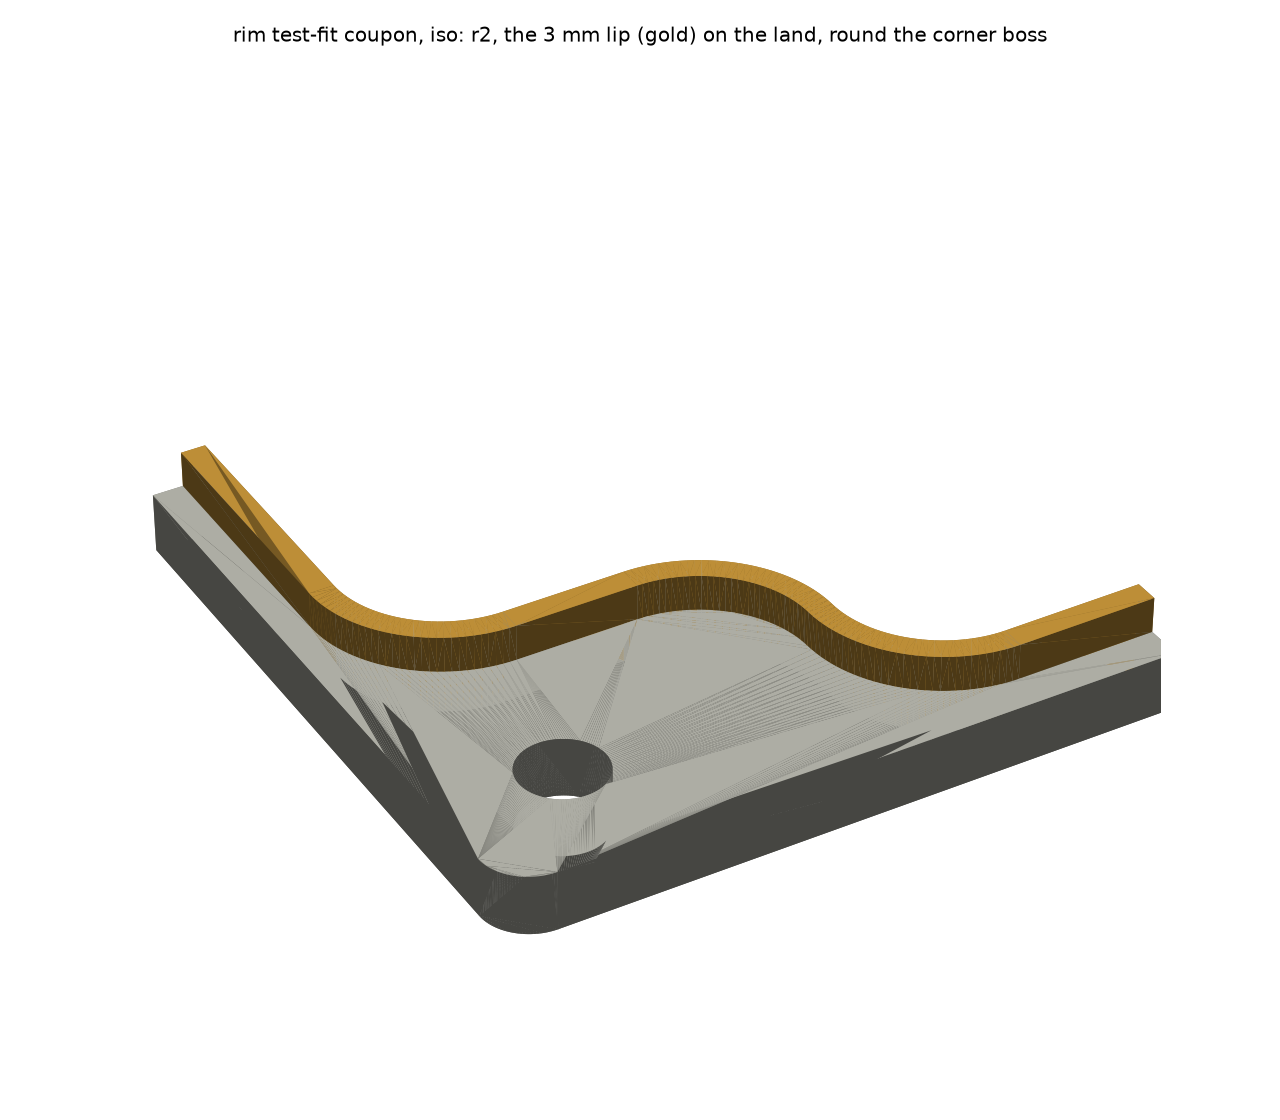
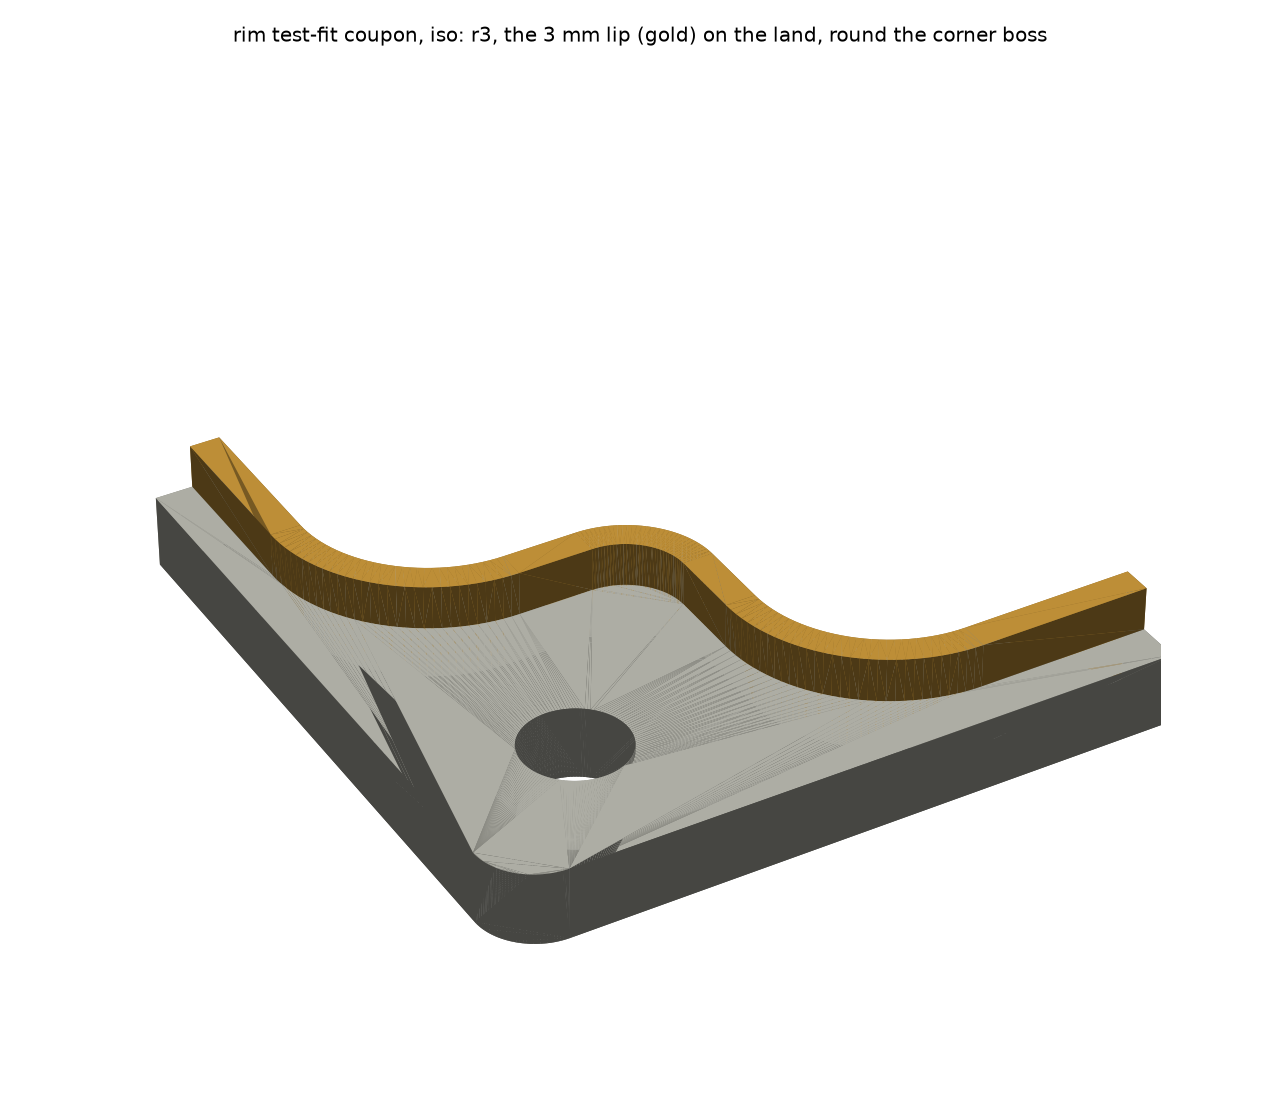
hardware: TX rim test-fit coupon r3, the S symmetric about the corner diagonal
The S's middle runs now sit 20 mm in from each straight lip line, lip centre to lip centre.
They leave each straight 30 mm from the other side's lip line. The two outer bends are R10
and the inner bend round the hole is R5, so each middle run has a 5 mm straight parallel to
an edge. The S is symmetric about the diagonal through the screw, to within the lip's 0.5 mm
side difference.

The coupon is back to 45 x 45 x 8, with 11 and 11.5 mm of straight past the outer bends.
The top view ghosts r2 and draws the diagonal. The full base's rim follows; the gate stays
closed.

diff --git a/hardware/tx-stack-r1/cage/coupon_views.py b/hardware/tx-stack-r1/cage/coupon_views.py
@@ -37,30 +37,42 @@ def top(solid):
         ax.plot(*zip(*ln), color="#555", lw=1.2)
     for ln in outline(solid, land_h + cage.TONGUE_H / 2):
         ax.plot(*zip(*ln), color="#b07a10", lw=1.6)
-    # r1's lip, ghosted under the new one
-    r1 = dict(cage.COUPON_R1)
+    # r2's lip, ghosted under the new one; the corner's diagonal through the screw
+    r1 = dict(cage.COUPON_GHOST)
     old = cage.seal_region(cage.TONGUE_W / 2, 0, 1, **dict(r1)).intersect(
         cq.Workplane("XY").rect(cx, cz, centered=False).extrude(1)).cut(cage.seal_region(-cage.TONGUE_W / 2, -1, 3, **dict(r1)))
     for ln in outline(old, 0.5):
         ax.plot(*zip(*ln), color="#aaa", lw=1.0, ls="--")
+    ax.plot([0, min(cx, cz)], [0, min(cx, cz)], color="#c03030", lw=0.8, ls="-.")
+    ax.text(min(cx, cz) - 8, min(cx, cz) - 3, "diagonal through\nthe screw", color="#c03030", fontsize=8)
     cs, cl, w = cage.TONGUE_CS, cage.TONGUE_CL, cage.TONGUE_W
-    rise, run, r = cage.S_RISE, cage.S_RUN, cage.CURVE_R
+    rise, run, r, ri = cage.S_RISE, cage.S_RUN, cage.CURVE_R, cage.CURVE_RI
     sx, sz = cage.SCREWS[0]
     hx, hz = sx + cage.T, sz + cage.T
     blue = "#1f4e9c"
     kw = dict(arrowprops=dict(arrowstyle="<->", color=blue, lw=0.9), color=blue, fontsize=8)
     t = dict(color=blue, fontsize=8)
-    ax.annotate("", (0, 48), (cl, 48), **kw)
-    ax.text(cl + 0.8, 48.6, f"{cl:g} (long side)", **t)
-    ax.annotate("", (50, 0), (50, cs), **kw)
-    ax.text(50.6, cs / 2 + 1.2, f"{cs:g}\n(short\nside)", **t)
-    ax.annotate("", (46, cs), (46, cs + rise), **kw)
-    ax.text(46.6, cs + rise / 2, f"{rise:g}", va="center", **t)
-    ax.annotate("", (cl, cs + rise + 6), (cl + run, cs + rise + 6), **kw)
-    ax.text(cl + run / 2, cs + rise + 6.7, f"{run:g}", ha="center", **t)
+    ax.annotate("", (0, 47), (cl, 47), **kw)
+    ax.text(cl + 0.8, 46.6, f"{cl:g} (long side)", **t)
+    ax.annotate("", (cx + 2, 0), (cx + 2, cs), **kw)
+    ax.text(cx + 2.6, cs / 2 + 1.2, f"{cs:g}\n(short\nside)", **t)
+    ax.annotate("", (cx - 3, cs), (cx - 3, cs + rise), **kw)
+    ax.text(cx - 2.4, cs + rise / 2, f"{rise:g}", va="center", **t)
+    ax.annotate("", (cl, cs + rise + 4), (cl + run, cs + rise + 4), **kw)
+    ax.text(cl + run / 2, cs + rise + 4.7, f"{run:g}", ha="center", **t)
+    ax.annotate("", (-2, cs), (-2, cs + rise + r), **kw)
+    ax.text(-3.6, cs + (rise + r) / 2, f"{rise + r:g}", rotation=90, va="center", **t)
+    ax.annotate("", (cl, -1.2), (cl + run + r, -1.2), **kw)
+    ax.text(cl + (run + r) / 2, -2.2, f"{run + r:g}", ha="center", **t)
     ax.annotate("", (cl - w / 2, 42), (cl + w / 2, 42), **kw)
     ax.text(cl + w / 2 + 0.8, 41.6, f"{w:g}", **t)
-    ax.text(cl + run + 4, 34, f"R {r:g} bends on the lip's centre line [TBD-MEASURE]\nlip {w:g} wide, "
+    # the middle runs' straights (between the outer and inner bends), axis-aligned
+    st = rise - r - ri
+    ax.annotate("", (cl + r, cs + rise - 3.2), (cl + r + st, cs + rise - 3.2), **kw)
+    ax.text(cl + r + st / 2, cs + rise - 5.4, f"{st:g} straight", ha="center", **t)
+    ax.annotate("", (cl + run + 3.2, cs + r), (cl + run + 3.2, cs + r + st), **kw)
+    ax.text(cl + run + 4.0, cs + r + st / 2, f"{st:g} straight", va="center", **t)
+    ax.text(cl + run + 4, 34, f"R {r:g} outer bends, R {ri:g} inner, on the lip's centre line [TBD-MEASURE]\nlip {w:g} wide, "
             f"{cage.TONGUE_H:g} tall; no land inside it", **t)
     d = S.val("coupon_bore")
     ax.annotate("", (0, hz), (hx, hz), **kw)
@@ -68,15 +80,16 @@ def top(solid):
     ax.annotate("", (hx, 0), (hx, hz), **kw)
     ax.text(hx + 0.6, hz / 2 - 2.5, f"{hz:g}", va="center", **t)
     ax.text(hx + d / 2 + 0.5, hz + d / 2, f"\u00d8{d:g}", **t)
-    ax.text(0.8, -2.8, f"outside corner R {cage.CORNER_R:g} [TBD-MEASURE]; grey dashed: r1's lip", **t)
+    ax.text(0.8, -4.4, f"outside corner R {cage.CORNER_R:g} [TBD-MEASURE]; grey dashed: r2's lip", **t)
     ax.set_aspect("equal")
-    ax.set_xlim(-4, cx + 9)
-    ax.set_ylim(-5, cz + 4)
+    ax.set_xlim(-6, cx + 9)
+    ax.set_ylim(-6, cz + 4)
     ax.set_xlabel("mm from the lid's outside edge (short side)")
     ax.set_ylabel("mm from the lid's outside edge (long side)")
-    ax.set_title(f"rim test-fit coupon r2, top: {cx:g} x {cz:g} x {ch:g} mm, lip (gold) moved out after the r1 fit; "
-                 f"hole \u00d8{d:g} at {hx:g}/{hz:g}.\nCHECK: Clint's marker line on r1 sat closer to the hole than "
-                 "these numbers (20 / 30 / R10) put the lip", fontsize=9)
+    ax.set_title(f"rim test-fit coupon r3, top: {cx:g} x {cz:g} x {ch:g} mm; hole \u00d8{d:g} at {hx:g}/{hz:g}\n"
+                 f"the S symmetric about the diagonal: 20 in from each lip line, R{r:g} outer / R{ri:g} inner bends, "
+                 f"axis-aligned straights\nCHECK: Clint's marker line on r1 sat closer to the hole than these numbers "
+                 "put the lip", fontsize=9)
     ax.grid(alpha=0.2)
     fig.tight_layout()
     fig.savefig(OUT / "rim-coupon-top.png", dpi=160)
@@ -104,7 +117,7 @@ def iso(solid):
     ax.set_box_aspect((cage.COUPON[0], cage.COUPON[1], 12))
     ax.view_init(elev=35, azim=-120)
     ax.set_axis_off()
-    ax.set_title("rim test-fit coupon, iso: r2, the 3 mm lip (gold) on the land, round the corner boss", fontsize=9)
+    ax.set_title("rim test-fit coupon, iso: r3, the 3 mm lip (gold) on the land, round the corner boss", fontsize=9)
     fig.tight_layout()
     fig.savefig(OUT / "rim-coupon-iso.png", dpi=160)
 

diff --git a/hardware/tx-stack-r1/cage/cage.py b/hardware/tx-stack-r1/cage/cage.py
@@ -51,7 +51,7 @@ LAND = RIM_OUT + RIM_CH + RIM_IN    # 9 mm
 TONGUE_W, TONGUE_H, TONGUE_CS, TONGUE_CL = S.val("rim_tongue")   # lip centre from the lid's edge: short, long sides
 TONGUE_C = max(TONGUE_CS, TONGUE_CL)
 S_RISE, S_RUN = S.val("seal_s")     # the S round each boss, lip centre line to lip centre line
-CURVE_R = S.val("seal_curve_r")
+CURVE_R, CURVE_RI = S.val("seal_curve_r")   # outer bends, inner bend
 # inside the base wall (box frame): the lip centre lines and the S's two segments
 LIP_CX, LIP_CZ = TONGUE_CL - T, TONGUE_CS - T            # along the long walls (Xb), the short walls (Zb)
 S_X, S_Z = LIP_CX + S_RUN, LIP_CZ + S_RISE               # the S's segment along Zb at Xb S_X, along Xb at Zb S_Z
@@ -321,9 +321,9 @@ def coax(arm):
     return pe, yb, zb, ax
 
 
-COUPON = (55.0, 55.0, 8.0)          # the test-fit coupon (r2): one rim corner, outside footprint x height; at least
+COUPON = (45.0, 45.0, 8.0)          # the test-fit coupon (r3): one rim corner, outside footprint x height; at least
 CORNER_R = S.val("corner_r_out")    #   10 mm of straight lip past each outer bend
-COUPON_R1 = dict(cs=4.5, cl=4.5, rise=19.0, run=18.0, r=5.0)   # r1's lip, ghosted on the drawing
+COUPON_GHOST = dict(cs=4.0, cl=3.5, rise=20.0, run=30.0, r=10.0)   # r2's lip, ghosted on the drawing
 
 
 def coupon_seal_points(cs=None, cl=None, rise=None, run=None, far=90.0):
@@ -339,8 +339,14 @@ def coupon_seal_points(cs=None, cl=None, rise=None, run=None, far=90.0):
 
 
 def rounded_wire(pts, r, bends=(1, 2, 3)):
-    """A closed CadQuery wire through pts, the 90-degree corners at the indices in bends rounded at radius r
-    (tangent arcs; a segment exactly 2r long is all arc)."""
+    """r is one radius, or one per bend (in the order of bends)."""
+    rs = dict(zip(bends, r if isinstance(r, (tuple, list)) else [r] * len(bends)))
+    return _rounded_wire(pts, rs)
+
+
+def _rounded_wire(pts, rs):
+    """A closed CadQuery wire through pts, the 90-degree corners at the indices in rs rounded at rs[i] (tangent
+    arcs between straights parallel to the edges)."""
     import cadquery as cq
     n = len(pts)
 
@@ -351,7 +357,8 @@ def rounded_wire(pts, r, bends=(1, 2, 3)):
     w = None
     seq = []
     for i, p in enumerate(pts):
-        if i in bends:
+        if i in rs:
+            r = rs[i]
             d1, d2 = unit(pts[i - 1], p), unit(p, pts[(i + 1) % n])
             p1 = (p[0] - r * d1[0], p[1] - r * d1[1])
             p2 = (p[0] + r * d2[0], p[1] + r * d2[1])
@@ -381,7 +388,7 @@ def rounded_wire(pts, r, bends=(1, 2, 3)):
 def seal_region(off, z0, h, **geom):
     """The box-inside region of the seal line (its bends rounded), grown by off (shrunk if < 0), as a prism."""
     import cadquery as cq
-    r = geom.pop("r", CURVE_R)
+    r = geom.pop("r", (CURVE_R, CURVE_RI, CURVE_R))
     wire = rounded_wire(coupon_seal_points(**geom), r).offset2D(off, "arc")[0]
     return cq.Workplane("XY").add(wire).toPending().extrude(h).translate((0, 0, z0))
 
@@ -389,7 +396,7 @@ def seal_region(off, z0, h, **geom):
 def coupon_solid():
     """The coupon (r2) as a CadQuery solid: the land from the outside edge to the lip's inner face (nothing inside
     the lip, round the S too), solid from the underside (it prints flat), the 2 x 3 sealing lip on its centre line
-    (4.0 in on the short side, 3.5 on the long, the S's bends at CURVE_R), the outside corner at CORNER_R, and the
+    (4.0 in on the short side, 3.5 on the long, the S's outer bends at CURVE_R, its inner bend at CURVE_RI), the outside corner at CORNER_R, and the
     7 mm screw hole. Its own frame: x, y in plan from the outside corner, z up from the underside."""
     import cadquery as cq
     cx, cz, ch = COUPON
@@ -473,7 +480,7 @@ def main():
     print(f"base: outside {L_OUT:g} x {W_OUT:g} x {BASE_D:g} (PETG, {T:g} mm walls), inside {W:g} x {H:g}, seam at Yb "
           f"{SEAM:g}, closed depth {D:g}; a {LAND:g} mm land ({RIM_OUT:g} + {RIM_CH:g} channel + {RIM_IN:g}, Clint) with a "
           f"{TONGUE_W:g} x {TONGUE_H:g} sealing lip {TONGUE_CS:g} in from the outside edge on the short sides, "
-          f"{TONGUE_CL:g} on the long (coupon r1 fit), its S {S_RISE:g} x {S_RUN:g} with R {CURVE_R:g} bends, into the "
+          f"{TONGUE_CL:g} on the long (coupon r1 fit), its S {S_RISE:g} x {S_RUN:g} with R {CURVE_R:g} outer and R {CURVE_RI:g} inner bends, into the "
           f"lid's O-ring channel (about "
           f"{TONGUE_H + S.val('l4_oring_proud'):g} mm squeeze on an assumed 3 mm round cord set 2 mm down); corner lands {CORNER_Z:g} x {CORNER_X:g}, insert posts "
           f"{POST:g} square, {CORNER_H:g} deep; lid "

diff --git a/hardware/tx-stack-r1/sources.py b/hardware/tx-stack-r1/sources.py
@@ -127,8 +127,8 @@ D = {
     "rim_tongue": ((2.0, 3.0, 4.0, 3.5), "the base's sealing lip: width, height above the land, centre-line offset from the lid's outside edge on the short sides, and on the long sides; it follows the lid channel's S-curve round each corner boss; the land ends at its inner face", "height 3 mm: Clint (the original base's lip). Offsets: r1 had both at 4.5 (the channel's centre by the sketch); Clint's printed test fit of coupon r1, 2026-11-10 (photo-8533, via the coordinator): the lip moves out 0.5 mm on the short side (4.0) and 1.0 mm on the long side (3.5). Width 2.0 leaves 0.5 mm a side in the 3 mm channel", "derived"),
     "l1_lid_screw": ((8.0, 0.0, 0.0), "L1: the original lid screw: thread diameter, pitch, length (option a, a printed thread to match)", "Clint, 2026-11-10 (photo-8528 rim.jpg and notes, via the coordinator): the original base's corner holes are large moulded threads, about 8 mm (coarse plastic thread in the photo); pitch and length not measured", "TBD"),
     "lid_screw_opt": ("b", "lid screws: (a) a printed thread matching the original screw; (b) M4 stainless screws with washers through the lid's 8 mm holes into M4 heat-set inserts", "layout choice (recommended b: brass inserts survive the lid coming off many times, a printed PETG thread wears; the original screw is not needed)", "derived"),
-    "seal_curve_r": (10.0, "radius of the S-curve's bends round each corner boss, on the lip's centre line", "Clint's printed test fit of coupon r1, 2026-11-10 (photo-8533, via the coordinator): Clint's estimate R10 (r1 had 5, from photo-8526)", "TBD"),
-    "seal_s": ((20.0, 30.0), "the S-curve round each corner boss, lip centre line to lip centre line: its rise from the short-side lip line (the segment along the short side sits this far in), its run from the long-side lip line (the segment along the long side sits this far in)", "Clint's printed test fit of coupon r1, 2026-11-10 (photo-8533, via the coordinator): Clint's measurements. Clint's marker line on the coupon sits closer to the hole than these numbers put the lip: check", "sourced"),
+    "seal_curve_r": ((10.0, 5.0), "radii of the S-curve's bends round each corner boss, on the lip's centre line: the two outer bends (where it leaves the straight legs), the inner bend (round the hole); each middle run keeps an axis-aligned straight between its bends", "Clint, 2026-11-10 (via the coordinator): outer R10 (his estimate); inner R5 so each 20 mm middle run has a 5 mm straight, every bend tangent, every straight parallel to an edge", "TBD"),
+    "seal_s": ((20.0, 20.0), "the S-curve round each corner boss, lip centre line to lip centre line: the segment along the short side sits this far in from the short-side lip line, the segment along the long side this far in from the long-side lip line (symmetric about the corner's diagonal through the screw)", "Clint's printed test fit, 2026-11-10 (photo-8533, via the coordinator): the S is symmetric about the corner diagonal and its middle sits 20 mm in from each straight lip line; it then leaves each straight 30 mm from the other side's lip line (his 30). r2 read it as 20 x 30. Clint's marker line on r1 sat closer to the hole: check", "sourced"),
     "coupon_bore": (7.0, "the rim coupon's screw hole (the full base keeps the insert's own bore, insert_m4)", "Clint's printed test fit of coupon r1, 2026-11-10 (photo-8533, via the coordinator): 25 % larger than r1's 5.6", "derived"),
     "corner_r_out": (4.0, "the lid's (and the base's) outside corner radius, in plan", "estimated from Clint's photo-8526 at about 13.4 px/mm (about 50 px); measure", "TBD"),
     "coupon_fit": (False, "test-fit coupon (cage.py --coupon): the real lid pressed onto the printed rim corner; the lip in the O-ring along both sides and round the boss's S-curve, the screw hole under the lid's hole", "pending: Clint prints it (about 20 minutes) and fits the lid; set True and sourced when it fits", "TBD"),
